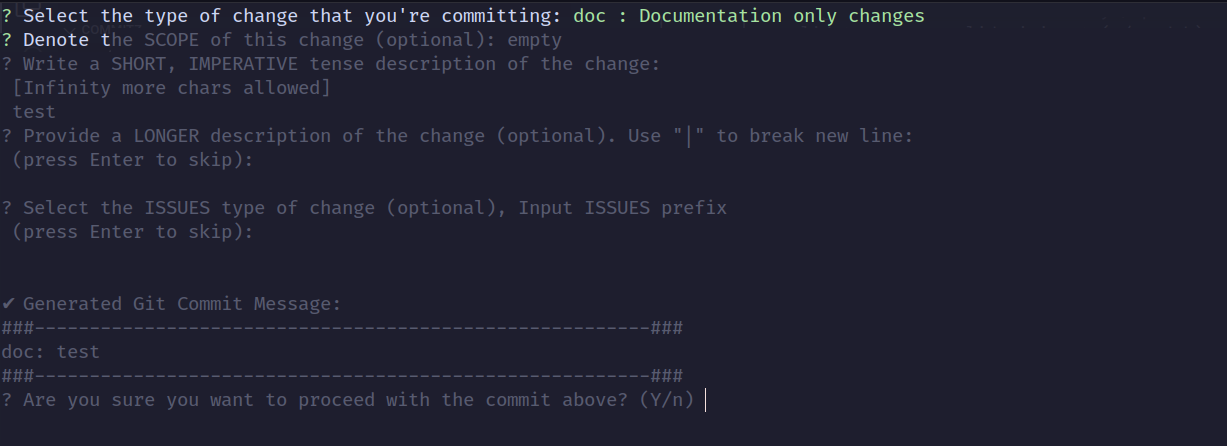
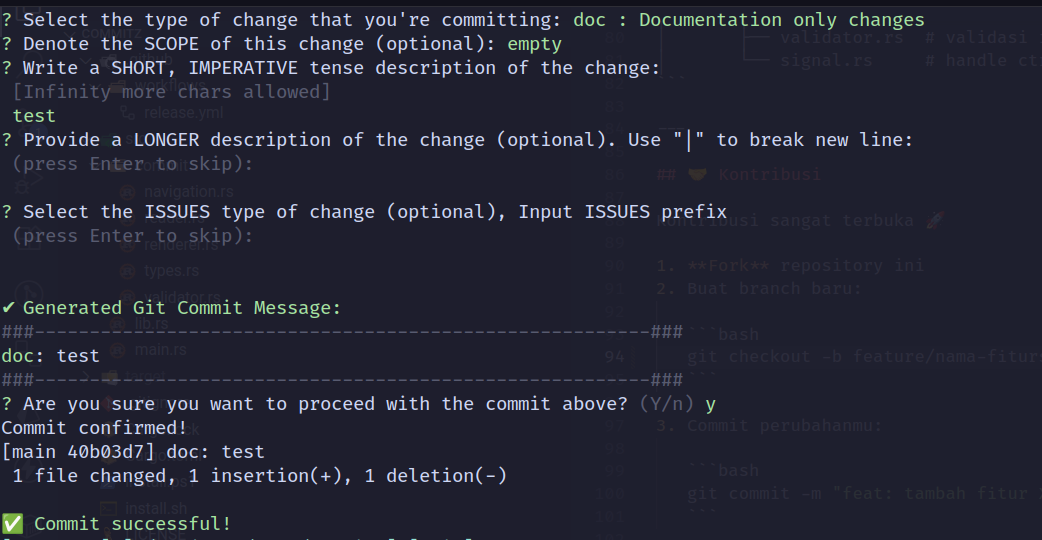
doc: edit dokumentasi

diff --git a/README.md b/README.md
@@ -98,7 +98,7 @@ Dibuat dengan ❤ menggunakan **Rust + Crossterm**.
 
 ![Tampilan Commitz](assets/ss3.png)
 
-![Tampilan Commitz](assets/ss5.png)
+![Tampilan Commitz](assets/ss4.png)
 
 ---
 
